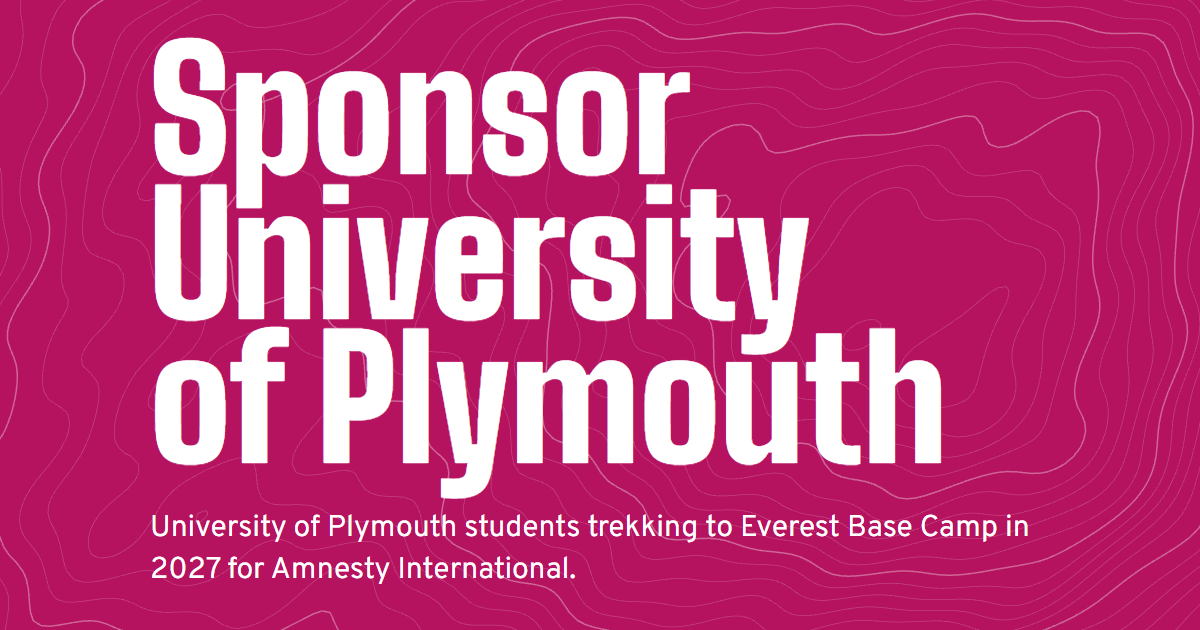
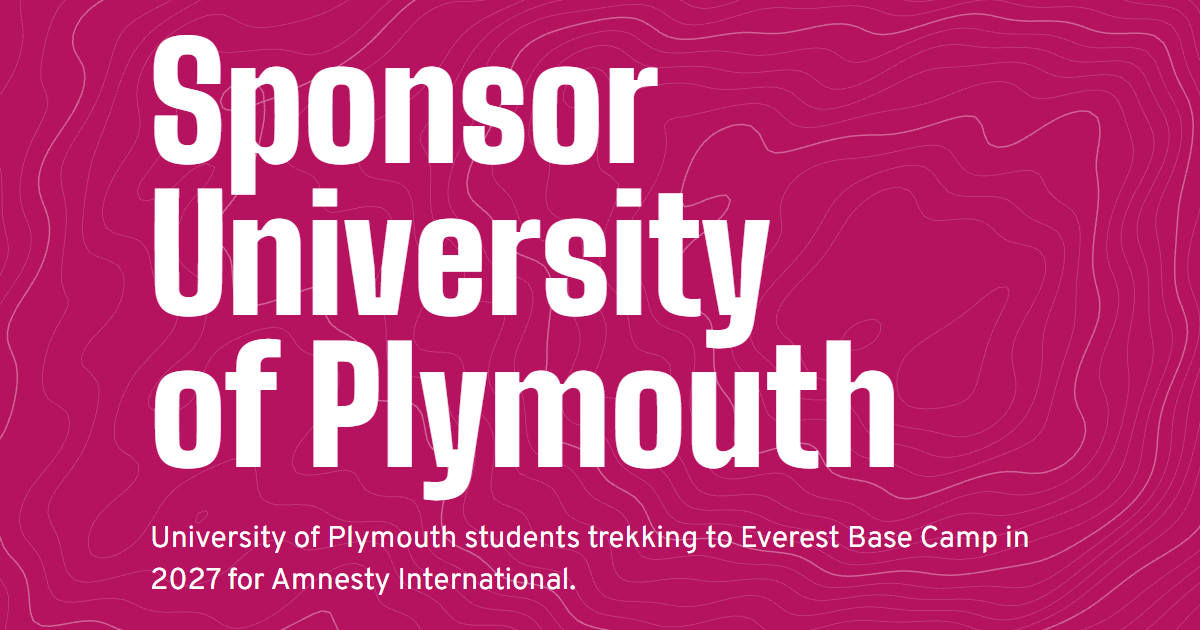
Give the hero title room and serve the 404 page for unknown paths
The y in University was touching the line below it. Unknown addresses
now get the site's own not-found page instead of a blank response.

Changed region(s): [[0.1233, 0.0603, 0.8633, 0.9349]]

diff --git a/public/styles.css b/public/styles.css
@@ -227,7 +227,8 @@ img { max-width: 100%; }
 }
 .hero h1 {
   font-size: clamp(3.5rem, 16.5vw, 6.25rem);
-  line-height: 0.86;
+  /* Tall enough that the y in University clears the line below. */
+  line-height: 0.96;
 }
 .hero h1 span { display: block; }
 .hero-intro {
@@ -314,14 +315,14 @@ img { max-width: 100%; }
   top: 3px;
   bottom: 3px;
   width: calc((100% - 16px) * var(--done));
-  min-width: 8px;
+  min-width: 12px;
   border-radius: 999px;
   background: var(--pink);
 }
 .route-done::after {
   content: '';
   position: absolute;
-  right: -3px;
+  right: -1px;
   top: 50%;
   width: 14px;
   height: 14px;
